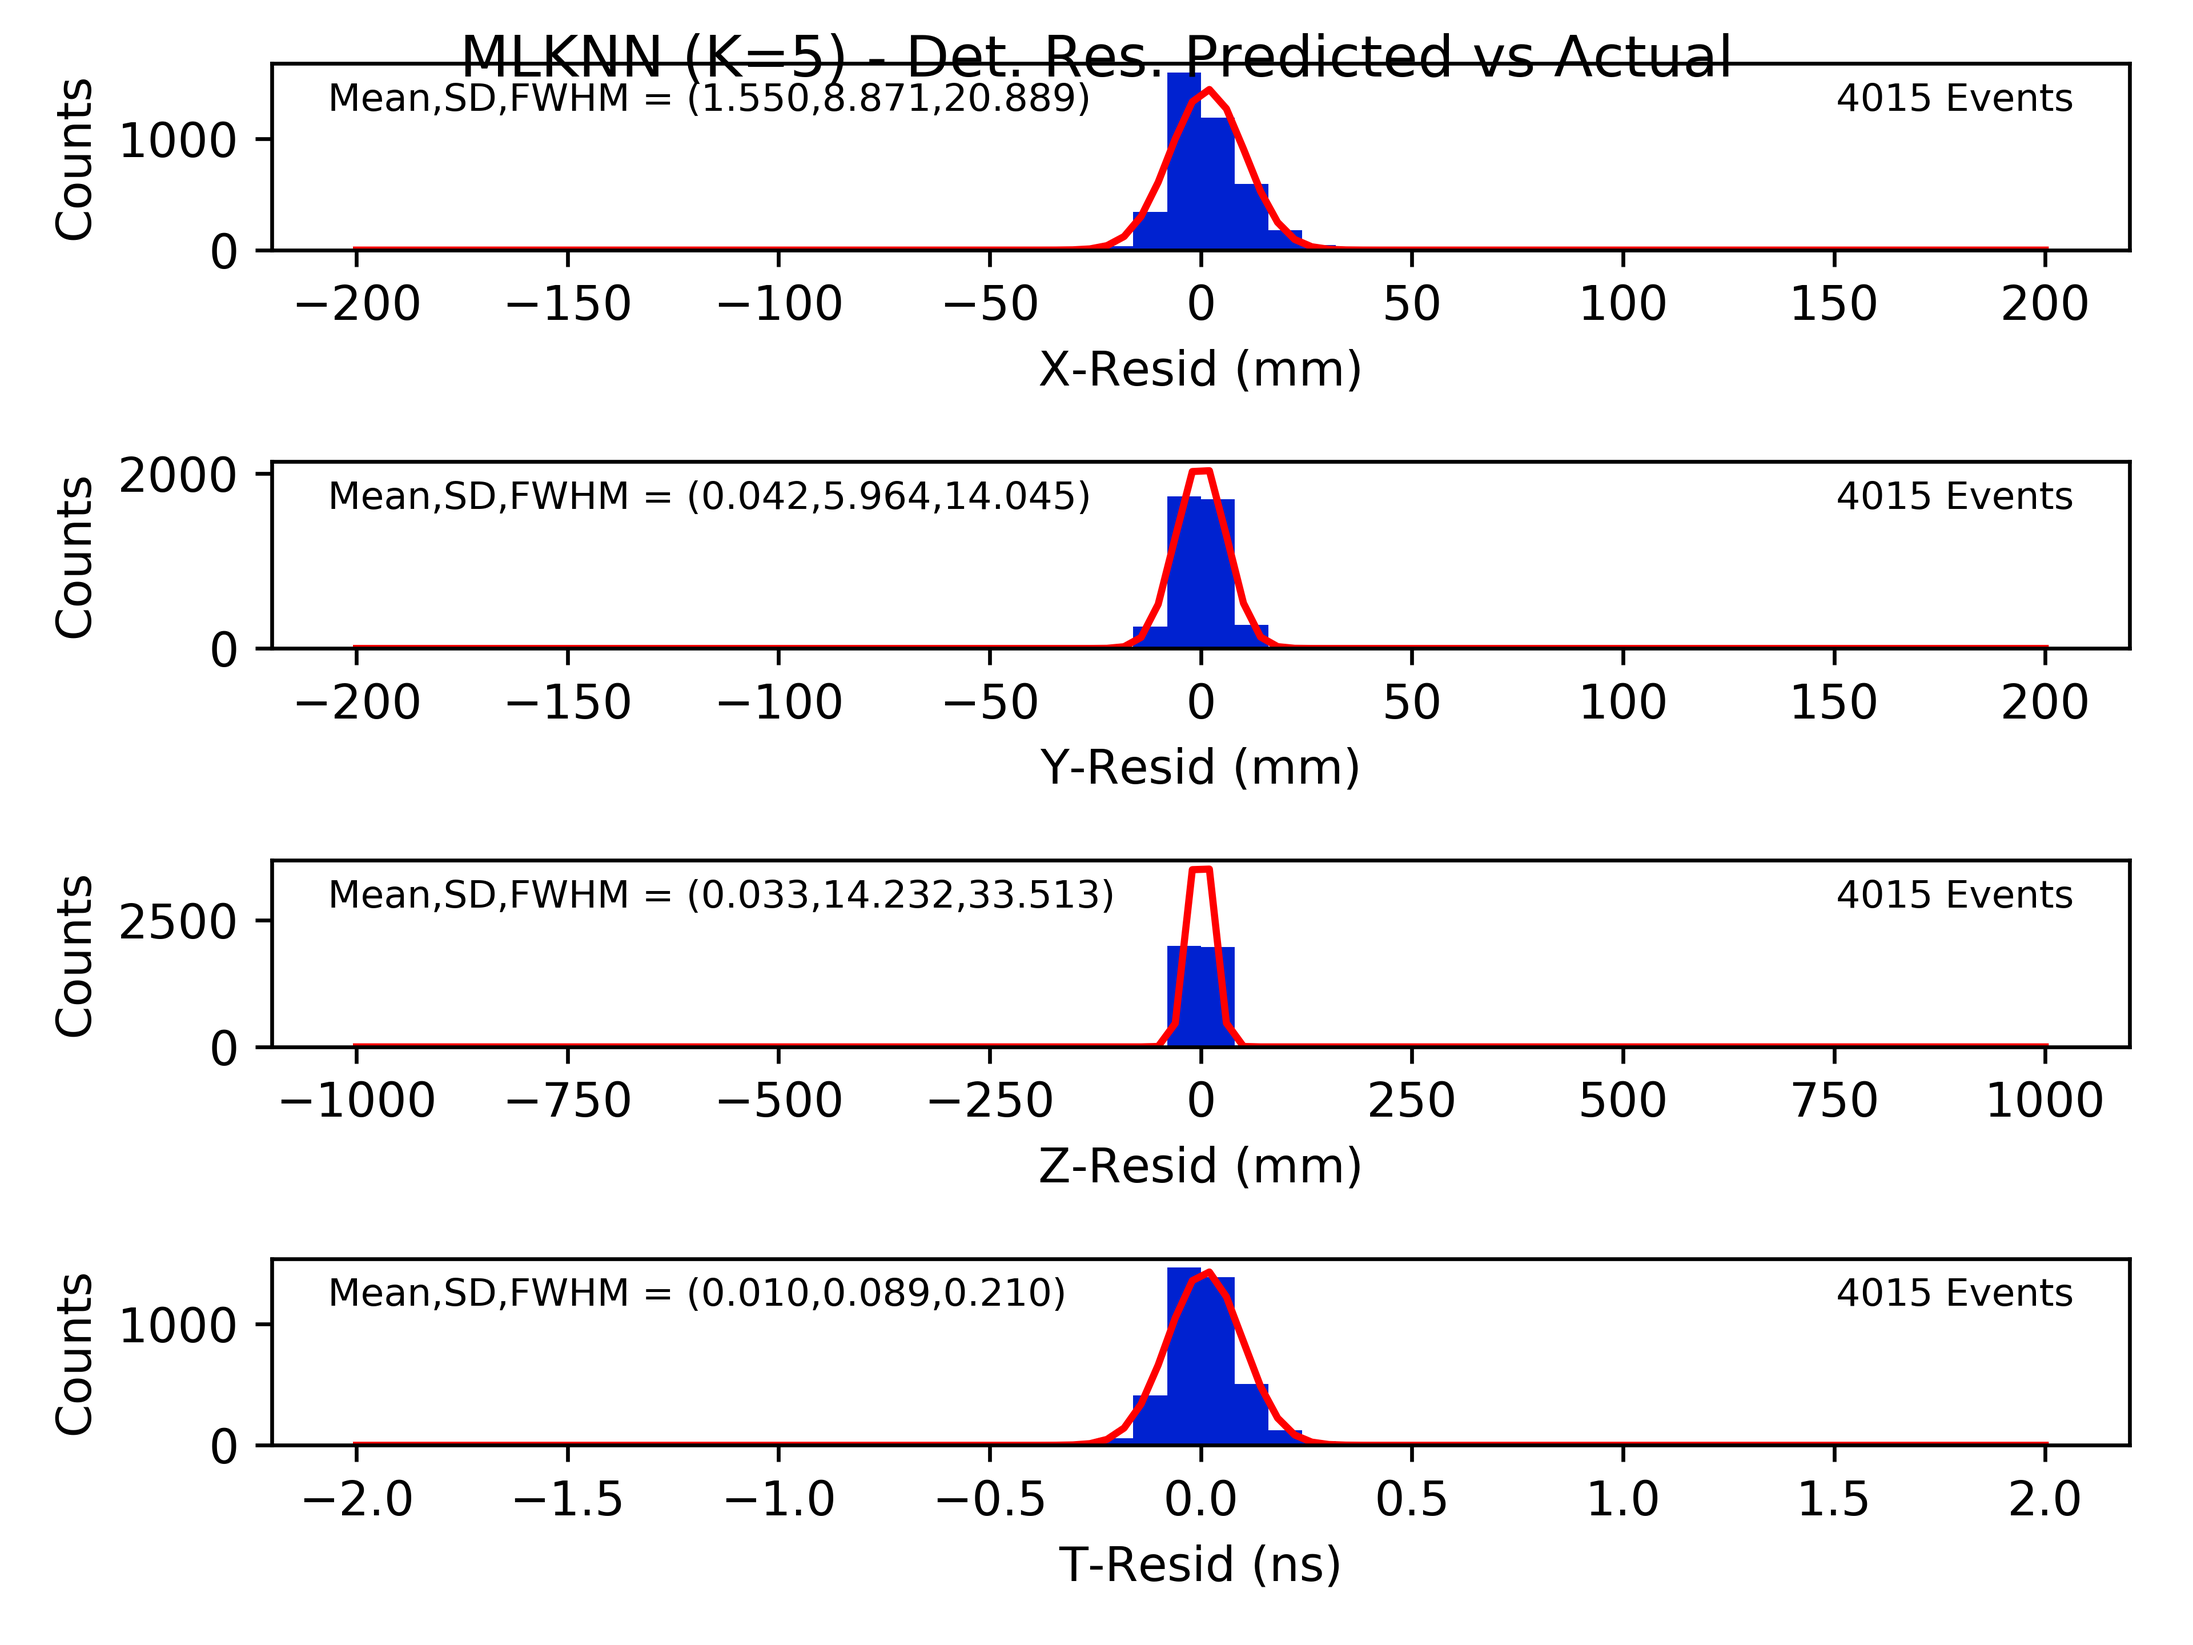
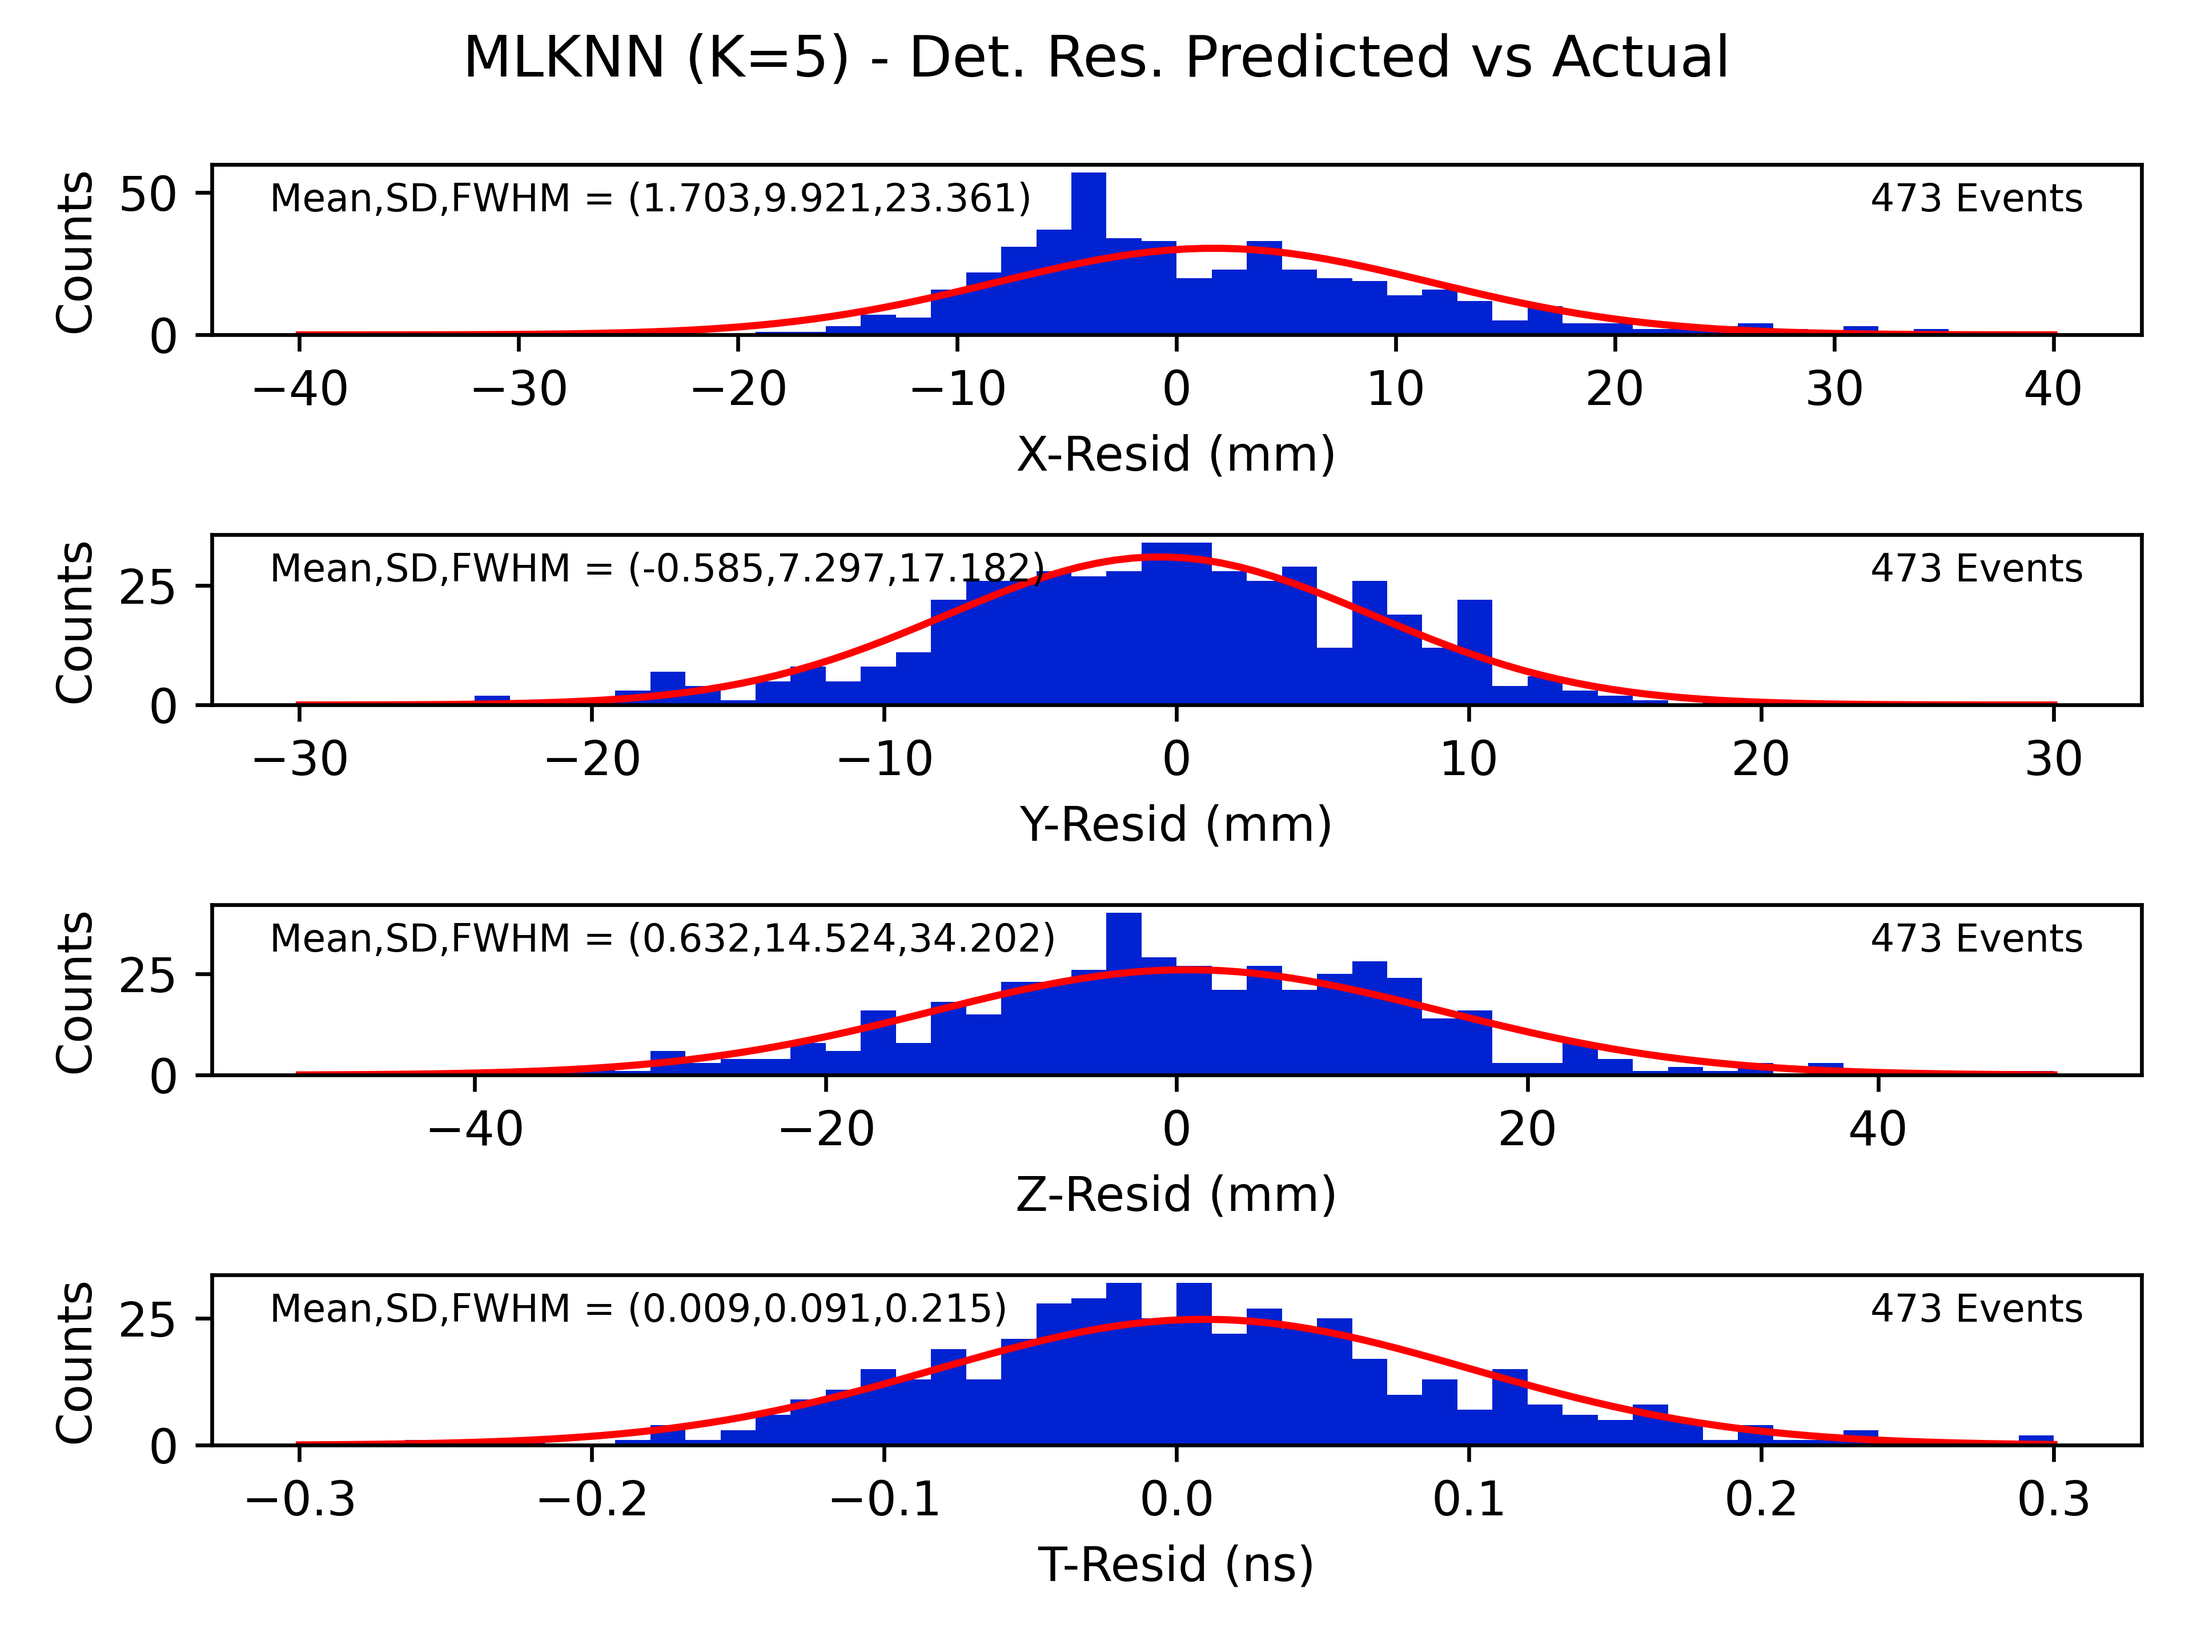
Modified Plotting

diff --git a/tools/ML/ML_detRes.py b/tools/ML/ML_detRes.py
@@ -4,6 +4,45 @@ if warmstart:
 else:
 	model_path = str(ML_PATH)+"Data/ML_DET_RES_"+str(photoLen)+"_Photo.pt"
 #-------------------------------------------------------
+unitList = ["mm","mm", "mm", "ns"]
+typeList = ["X-Resid (mm)","Y-Resid (mm)", "Z-Resid (mm)", "T-Resid (ns)"]
+rangeList = [[-40,40],[-30,30],[-50,50],[-0.3,0.3]]
+binList = [5,5,25,0.1]
+locX = 0.95
+locY = 0.05
+spaY = 0.10
+#-------------------------------------------------------
+MarginalPLT = True
+from mpl_toolkits.axes_grid1 import make_axes_locatable
+def marginalPLT(ax,x,y,i):
+	ax.set_aspect(1.)
+	# create new axes on the right and on the top of the current axes
+	divider = make_axes_locatable(ax)
+	# below height and pad are in inches
+	ax_histx = divider.append_axes("top", 0.2, pad=0.05, sharex=ax)
+	ax_histy = divider.append_axes("right", 0.2, pad=0.05, sharey=ax)
+	# now determine nice limits by hand:
+	binwidth = binList[i]
+	xymax = max(np.max(np.abs(x)), np.max(np.abs(y)))
+	lim = (int(xymax/binwidth) + 1)*binwidth
+	bins = np.arange(-lim, lim + binwidth, binwidth)
+	ax_histx.hist(x, bins=bins)
+	ax_histy.hist(y, bins=bins, orientation='horizontal')
+	ax_histx.text(locX,locY+spaY, "Bin={0:.1f} {1}".format(binwidth,unitList[i]),verticalalignment='bottom',horizontalalignment='right',transform = ax.transAxes,fontsize=8)
+
+	# the xaxis of ax_histx and yaxis of ax_histy are shared with ax,
+	# thus there is no need to manually adjust the xlim and ylim of these
+	# axis.
+	#ax_histx.set_yticks([0, 50, 100])
+	#ax_histy.set_xticks([0, 50, 100])
+	ax_histx.get_xaxis().set_visible(False)
+	ax_histy.get_yaxis().set_visible(False)
+	ax.tick_params(labelsize=8)
+	ax_histx.tick_params(labelsize=8)
+	ax_histy.tick_params(labelsize=8)
+
+	plt.margins(0,0)
+#-------------------------------------------------------
 #vis
 def ml_detRes_vis(inpT,expT,pl):
 	resid = inpT-expT
@@ -12,9 +51,7 @@ def ml_detRes_vis(inpT,expT,pl):
 		print("ERROR = type shape not equal. Quitting.")
 		quit()
 
-	typeList = ["X-Resid (mm)","Y-Resid (mm)", "Z-Resid (mm)", "T-Resid (ns)"]
-	rangeList = [[-200,200],[-200,200],[-1000,1000],[-2,2]]
-	fig, axs = plt.subplots(types)
+	fig, axs = plt.subplots(types,constrained_layout=True)
 	plt.suptitle("ML - Det. Res. Residuals (Errors)")
 	if(device=="cpu"):
 		data = resid.detach()#.numpy()
@@ -36,7 +73,6 @@ def ml_detRes_vis(inpT,expT,pl):
 		axs[i].text(0.97, 0.90, "{0} Events".format(length),verticalalignment='top',horizontalalignment='right',transform = axs[i].transAxes,fontsize=8)
 
 	
-	plt.tight_layout()
 	if(KNN):
 		plt.suptitle("MLKNN (K="+str(pl)+") - Det. Res. Predicted vs Actual")
 		plt.savefig(str(ML_PATH)+"/Models/detRes_training_KNN_"+str(pl)+".png",dpi=600)
@@ -55,7 +91,7 @@ def ml_detRes_vis2(inpT,expT,pl):
 		quit()
 
 	typeList = ["X (mm)","Y (mm)", "Z (mm)", "T (ns)"]
-	fig, axs = plt.subplots(2,2)
+	fig, axs = plt.subplots(2,2, constrained_layout=True)
 	if(device=="cpu"):
 		inpTS = inpT.detach().numpy()
 		expTS = expT.detach().numpy()
@@ -105,21 +141,22 @@ def ml_detRes_vis2(inpT,expT,pl):
 		#ax.plot(x0,predict_mean_ci_upp,color='black')
 		ax.plot(x0,fittedvalues,color='red')
 		ax.plot(ax.get_xticks(),ax.get_xticks(),color='darkred')
-		#ax.set_xlim(min(x),max(x))	
-		#ax.set_ylim(min(x),max(x))
-		ax.text(0.90, 0.20, "FIT:({0:.3f},{1:.3f}) ".format(intercept,slope),verticalalignment='top',horizontalalignment='right',transform = ax.transAxes,fontsize=8)
-		ax.text(0.90, 0.40, "{0} Events".format(length),verticalalignment='top',horizontalalignment='right',transform = ax.transAxes,fontsize=8)
+		ax.set_xlim(min(x),max(x))	
+		ax.set_ylim(min(x),max(x))
+		ax.text(locX,locY, "FIT:({0:.3f},{1:.3f})".format(intercept,slope),verticalalignment='bottom',horizontalalignment='right',transform = ax.transAxes,fontsize=8)
+		ax.text(locX,locY+2*spaY, "{0} Events".format(length),verticalalignment='bottom',horizontalalignment='right',transform = ax.transAxes,fontsize=8)
 
-		
+		#marginal axes
+		if MarginalPLT:
+			marginalPLT(ax,x,y,i)
 
-	plt.tight_layout()
 	if(KNN):
 		plt.suptitle("MLKNN (K="+str(pl)+") - Det. Res. Predicted vs Actual")
-		plt.savefig(str(ML_PATH)+"/Models/detRes_Predictions_KNN_"+str(pl)+"_.png",dpi=600)
+		plt.savefig(str(ML_PATH)+"/Models/detRes_Predictions_KNN_"+str(pl)+"_.png",bbox_inches='tight',dpi=600)
 		plt.show()
 	else:
 		plt.suptitle("MLCNN - Det. Res. Predicted vs Actual")
-		plt.savefig(str(ML_PATH)+"/Models/detRes_Predictions_CNN_"+str(pl)+".png",dpi=600)
+		plt.savefig(str(ML_PATH)+"/Models/detRes_Predictions_CNN_"+str(pl)+".png",bbox_inches='tight',dpi=600)
 		plt.show()
 
 def ml_detRes_vis_knn(inpT,expT,uik,noplt):
@@ -150,7 +187,7 @@ def ml_detRes_vis_knn(inpT,expT,uik,noplt):
 		return rmseL
 	else:
 		typeList = ["X (mm)","Y (mm)", "Z (mm)", "T (ns)"]
-		fig, axs = plt.subplots(2,2)
+		fig, axs = plt.subplots(2,2, constrained_layout=True)
 		for i in range(types):
 			ax = axs[int(i/2),i%2]
 			x,y = expTS[:,i],inpTS[:,i]
@@ -174,14 +211,20 @@ def ml_detRes_vis_knn(inpT,expT,uik,noplt):
 			ax.fill_between(x,predict_ci_low,predict_ci_upp, color='black', facecolor='lightsteelblue', alpha=0.7)
 			ax.fill_between(x,predict_mean_ci_low,predict_mean_ci_upp, color='black', facecolor='lightslategrey', alpha=0.7)
 			ax.plot(x,fittedvalues,color='red')
-
 			ax.plot(ax.get_xticks(),ax.get_xticks(),color='darkred')
-			ax.text(0.90, 0.90, "FIT: (intercept, slope) = ({0},{1}) ".format(intercept,slope),verticalalignment='top',horizontalalignment='right', fontsize=8)
+			ax.set_xlim(min(x),max(x))	
+			ax.set_ylim(min(x),max(x))
+			ax.text(locX,locY, "FIT:({0:.3f},{1:.3f})".format(intercept,slope),verticalalignment='bottom',horizontalalignment='right',transform = ax.transAxes,fontsize=8)
+			ax.text(locX,locY+2*spaY, "{0} Events".format(length),verticalalignment='bottom',horizontalalignment='right',transform = ax.transAxes,fontsize=8)
 
-		plt.tight_layout()
+			#marginal axes
+			if MarginalPLT:
+				marginalPLT(ax,x,y,i)
+
 		plt.suptitle("MLKNN (K="+str(uik)+") - Det. Res. Predicted vs Actual")
-		plt.savefig(str(ML_PATH)+"/Models/detRes_Predictions_KNN_"+str(uik)+"_.png")
+		plt.savefig(str(ML_PATH)+"/Models/detRes_Predictions_KNN_"+str(uik)+"_.png",bbox_inches='tight',dpi=600)
 		plt.close()
+		return rmseL
 		#plt.show()
 def ml_detRes_vis_knn2(pltx,rmseP):
 	fig, axs = plt.subplots(2,2)

diff --git a/analyze.py b/analyze.py
@@ -15,6 +15,7 @@ from functools import lru_cache
 from scipy import stats
 from scipy.optimize import curve_fit
 from tqdm import tqdm
+import multiprocessing
 import cv2
 import sys
 #------------------------------------------------------------------------------------
@@ -23,8 +24,15 @@ PYTHONIOENCODING="UTF-8"  #sys.setdefaultencoding("ISO-8859-1")
 plotDIR = "plots/"
 ML_PATH = "tools/ML/"
 #------------------------------------------------------------------------------------
-MaxEventLimit = True
-MaxEvents =17000#int(input("Number of Events:"))
+if(multiprocessing.cpu_count()>16):
+	num_cores = 40
+	MaxEventLimit = False
+else:
+	num_cores = multiprocessing.cpu_count()
+	MaxEventLimit = True
+#------------------------------------------------------------------------------------
+#MaxEventLimit = True #manual override
+MaxEvents = 500#int(input("Number of Events:"))
 #--------------------------
 #Defining Flags:
 STRIPHIST = False
@@ -43,10 +51,10 @@ SiPMtimeRES = False
 SiPMtimeVSatt = False 
 SiPMtimePOSRES = False #multilateration style x,y,z positioning for visualization?.
 ML_DRES = True #(turn off SiPMTime_Based_Reconstruction)
-DRES_Train = False #Train or Test/VIS?
+DRES_Train = True #Train or Test/VIS?
 warmstart=True # warmstart the CNN
 KNN = True #using KNN OR CNN ?
-knn_neighbors = 5 #set value
+knn_neighbors = 1 #set value
 #---------------
 POSRES = False
 RES_ADD = False #additional resolution plots

diff --git a/tools/ML/ML_detRes_KNN.py b/tools/ML/ML_detRes_KNN.py
@@ -21,8 +21,8 @@ inputTensor,expectedTensor = MLDRESpreprocess(photoLen)
 length = inputTensor.shape[0]
 frac = 0.75
 splitList = [int(length*frac),length - int(length*frac)]
-finalK = 50
-stepK = 2
+finalK = 80
+stepK = 4
 veclen = int((finalK+stepK-1)/stepK)
 #n = int(length/folds)
 epochs = 5
@@ -43,7 +43,7 @@ if(DRES_Train):
 	rmseP = torch.zeros((veclen,4,epochs))
 	pltx = np.zeros((veclen,4,epochs))
 	nk=0
-	for uik in np.arange(1,finalK,stepK):
+	for uik in np.arange(4,finalK,stepK):
 		drnet.setK(uik)
 		for jk in range(epochs):
 			listset = list(range(length))
@@ -55,7 +55,8 @@ if(DRES_Train):
 			expectTensor = expectedTensor[testInd]
 			#dataTensorX,dataTensorY,inputTensor,expectTensor
 			out = drnet(dataTensorX,dataTensorY,inptTensor)
-			rmseP[nk,:,jk] = torch.from_numpy(ml_detRes_vis_knn(out,expectTensor,uik,noplt=True))
+			rmseP[nk,:,jk] = torch.from_numpy(ml_detRes_vis_knn(out,expectTensor,uik,noplt=False))
+			ml_detRes_vis(out,expectTensor,uik)
 			pltx[nk,:,jk] = [uik]*4
 		nk=nk+1
 	ml_detRes_vis_knn2(pltx,rmseP)

diff --git a/tools/ML/ML.py b/tools/ML/ML.py
@@ -12,7 +12,6 @@ import torchvision.transforms as transforms
 import torchvision.utils as vutils
 torch.backends.cudnn.benchmark = True
 torch.backends.cudnn.enabled = True
-import multiprocessing
 import statsmodels.api as sm
 from statsmodels.stats.outliers_influence import summary_table
 from statsmodels.tools.eval_measures import rmse
@@ -22,10 +21,6 @@ import pandas as pd
 from tqdm import tqdm
 #-------------------------------------------------------
 torch.multiprocessing.set_sharing_strategy('file_system')
-if(multiprocessing.cpu_count()>16):
-	num_cores = 40
-else:
-	num_cores = multiprocessing.cpu_count() -1
 ngpu = 1
 device = torch.device("cuda:0" if (torch.cuda.is_available() and ngpu > 0) else "cpu")
 workers = num_cores - 1
